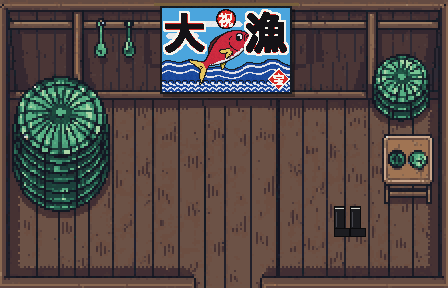
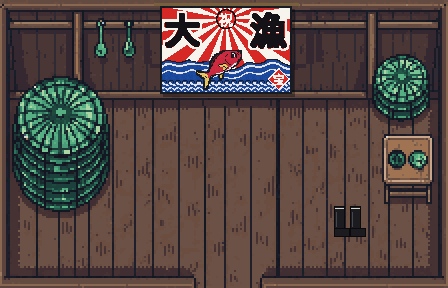
公開版を更新(宝舟の大漁旗の直し、見届けを旗の前へ、版 427)
Claude-Session: https://claude.ai/code/session_01ERearMX4bR57A7Hf4hvtGp

Changed region(s): [[0.3438, 0.0, 0.6562, 0.3125]]

diff --git a/field/worlds/takarabune.js b/field/worlds/takarabune.js
@@ -346,19 +346,31 @@ const TK_PORT = tkMap("port", 28, 14, {
     { id: "netDoor", x: 423, y: 160, w: 22, h: 14, enabled: tkNorth, warp: { map: "amigoya", spawn: "door" } }, // 網小屋の戸口(D457)
   ],
   objects: [
-    // 見届け: 青い光漁の光が沖へ消えるまで見ている(D189)
-    kWatch({
-      id: "w_bluelight",
-      x: 11.2 * T,
-      y: 9.2 * T,
-      r: 2.6 * T,
-      sec: 6, lure: "120, 220, 255",
-      when: (api) => api.flag("glowed"),
-      fx(ctx, sx, sy, p, t) {
-        kGlowAt(ctx, sx + 1.5 * T + p * 7 * T, sy + 2.6 * T - p * 0.6 * T, 140 * (1 - p) + 14, "150, 230, 255", (1 - p) * 1);
-        kGlowAt(ctx, sx + 1.5 * T + p * 7 * T, sy + 2.6 * T - p * 0.6 * T, 40 * (1 - p) + 6, "235, 252, 255", (1 - p) * 0.9);
-      },
-    }),
+    // 青い光漁の光が沖へ消えていく(前の見届け。D462 で見届けは網小屋の大漁旗へ移した。景色として残す。呼ぶ光はなし)
+    Object.assign(
+      kWatch({
+        id: "s_bluelight",
+        keep: true, // 見届けたあとも景色として描く
+        x: 11.2 * T,
+        y: 9.2 * T,
+        r: 2.6 * T,
+        sec: 6,
+        when: (api) => api.flag("glowed"),
+        fx(ctx, sx, sy, p, t) {
+          kGlowAt(ctx, sx + 1.5 * T + p * 7 * T, sy + 2.6 * T - p * 0.6 * T, 140 * (1 - p) + 14, "150, 230, 255", (1 - p) * 1);
+          kGlowAt(ctx, sx + 1.5 * T + p * 7 * T, sy + 2.6 * T - p * 0.6 * T, 40 * (1 - p) + 6, "235, 252, 255", (1 - p) * 0.9);
+        },
+      }),
+      {
+        update(dt, t, api) {
+          const pl = api.player();
+          if (this.p >= 1) return; // 一度消えたら、そのまま
+          if (api.flag("glowed") && Math.hypot(pl.x - this.x, pl.y - this.y) < this.r) this.p = Math.min(1, this.p + dt / 6);
+          else this.p = Math.max(0, this.p - dt / 18);
+        },
+        r: 2.6 * T,
+      }
+    ),
     // 宝舟は岸壁より手前(水の上)。帆・帆柱・竜頭・煙突は、岸壁を歩くきーより手前に描く(fg_port。docs/assets/takarabune/fg_port.py)
     // 帆のうしろの岸壁は通れる。うしろに入ると、きーは帆に隠れる(2026-10-03、作者「帆の後ろは通り抜けるが、きーが隠れるはできる？」)
     // 竜頭と首のうしろの岸壁も通れて、うしろに入ると竜頭と首に隠れる(2026-10-03、作者「通りぬけるようにして」→「首と竜頭のうしろに隠れる」)
@@ -750,7 +762,7 @@ const TK_GATE = tkMap("gate", 28, 10, {
 
 // B2 構内(todo 152): 正門を北へ抜けると、夜の発電所の敷地。北の管理棟の扉(緑の非常灯)から中へ。南の門のすきまから正門へ
 // 網小屋の中(D457、todo 155): 宝舟の港の網小屋。真っ暗で、てらすがないと、きーのまわりしか見えない
-// 絵は PixelLab の案を手で直し、大漁旗(PixelLab の絵に手描きの字)を掛けた(docs/assets/takarabune/amigoya/finish.py)。持ち帰るものはない
+// 絵は PixelLab の案を手で直し、大漁旗(PixelLab の絵に手描きの字、赤白の放射。D461、flag_rays.py)を掛けた(docs/assets/takarabune/amigoya/finish.py)。持ち帰るものはない
 const TK_AMIGOYA = tkMap("amigoya", 14, 9, {
   spawns: { door: { x: 7 * T, y: 8.1 * T, facing: "north" } },
   dark: 1, // てらすがないと、きーのまわりのほかは何も見えない
@@ -760,6 +772,51 @@ const TK_AMIGOYA = tkMap("amigoya", 14, 9, {
     tkWall(372, 96, 432, 120), // 右の網の山
     tkWall(382, 150, 432, 200), // 浮き玉の棚
     tkWall(334, 226, 366, 238), // 長靴
+    // 見届け(D462): 大漁旗の前にいると、祝の丸から放射にそって、ほのかな光が旗いっぱいに広がり、ゆっくり消える(ちゃんの祝いの名残)
+    // 部屋は真っ暗なので、てらすがないと見届けられない(D201)。光は闇の上に描く(lit)
+    kWatch({
+      id: "w_flag",
+      x: 226,
+      y: 104,
+      r: 1.6 * T,
+      sec: 6,
+      lure: "255, 226, 170",
+      lit: true,
+      ly: 19 - 104, // 祝の丸
+      when: (api) => api.hasAbility("terasu") || api.flag("terasu"), // rpg.js の can("terasu") と同じ
+      fx(ctx, sx, sy, p) {
+        if (p <= 0) return;
+        const fx0 = sx - 66, fy0 = sy - 98; // 旗の左上(網小屋の絵の 160, 6)
+        const show = Math.min(1, p / 0.3) * (p < 0.6 ? 1 : 1 - (p - 0.6) / 0.4); // 光が強まり、また消える
+        ctx.save();
+        ctx.beginPath();
+        ctx.rect(fx0, fy0, 132, 88);
+        ctx.clip();
+        ctx.globalCompositeOperation = "lighter";
+        ctx.globalAlpha = 1;
+        const cx = sx, cy = sy - 85; // 祝の丸
+        const R = 6 + Math.min(1, p / 0.7) * 110; // 光の輪が、放射にそって外へ走る
+        const a = 0.42 * show;
+        const out = R + 10;
+        const g = ctx.createRadialGradient(cx, cy, 0, cx, cy, out);
+        g.addColorStop(0, `rgba(255, 210, 140, ${a * 0.1})`);
+        g.addColorStop(Math.max(0, (R - 12) / out), `rgba(255, 210, 140, ${a * 0.08})`);
+        g.addColorStop(R / out, `rgba(255, 190, 90, ${a})`);
+        g.addColorStop(1, "rgba(255, 190, 90, 0)");
+        ctx.fillStyle = g;
+        for (let i = 0; i < 16; i++) {
+          // 放射の赤い筋(16 本)の向きだけ光らせる
+          const a0 = (2 * Math.PI * i) / 16 + Math.PI / 32;
+          ctx.beginPath();
+          ctx.moveTo(cx, cy);
+          ctx.arc(cx, cy, out, a0 - Math.PI / 32, a0 + Math.PI / 32);
+          ctx.closePath();
+          ctx.fill();
+        }
+        kGlowAt(ctx, cx, cy, 16, "255, 236, 200", a * 0.8); // 祝の丸のまわり
+        ctx.restore();
+      },
+    }),
   ],
 });
 const TK_YARD = tkMap("yard", 20, 10, {

diff --git a/field/index.html b/field/index.html
@@ -14,8 +14,8 @@
   <link rel="apple-touch-icon" href="./apple-touch-icon.png">
   <meta name="apple-mobile-web-app-title" content="ぼぎだぢ">
   <meta http-equiv="Cache-Control" content="no-cache">
-  <script src="./fresh.js?v=425"></script>
-  <link rel="stylesheet" href="./style.css?v=425">
+  <script src="./fresh.js?v=427"></script>
+  <link rel="stylesheet" href="./style.css?v=427">
 </head>
 <body>
 
@@ -53,33 +53,33 @@
   <button type="button" id="actionBtnT" class="action-btn action-btn-t" aria-label="時計">TIME</button>
 
 
-  <script src="./audio.js?v=425"></script>
-  <script src="./rpg.js?v=425"></script>
-  <script src="./worlds/common.js?v=425"></script>
-  <script src="./worlds/lake.js?v=425"></script>
-  <script src="./worlds/void.js?v=425"></script>
-  <script src="./worlds/haihei.js?v=425"></script>
-  <script src="./worlds/kasumi.js?v=425"></script>
-  <script src="./worlds/banana.js?v=425"></script>
-  <script src="./worlds/suzuki.js?v=425"></script>
-  <script src="./worlds/takarabune.js?v=425"></script>
-  <script src="./worlds/noroi.js?v=425"></script>
-  <script src="./worlds/noroi_diner.js?v=425"></script>
-  <script src="./worlds/noroi_strip.js?v=425"></script>
-  <script src="./worlds/noroi_race.js?v=425"></script>
-  <script src="./worlds/pinball.js?v=425"></script>
-  <script src="./worlds/padre.js?v=425"></script>
-  <script src="./worlds/kinsei.js?v=425"></script>
-  <script src="./worlds/bomber.js?v=425"></script>
-  <script src="./worlds/finale.js?v=425"></script>
-  <script src="./worlds/index.js?v=425"></script>
-  <script src="./app/layout.js?v=425"></script>
-  <script src="./app/dialog.js?v=425"></script>
-  <script src="./app/game.js?v=425"></script>
-  <script src="./app/status.js?v=425"></script>
-  <script src="./app/title.js?v=425"></script>
-  <script src="./app/watch.js?v=425"></script>
-  <script src="./app/input.js?v=425"></script>
-  <script src="./app/loop.js?v=425"></script>
+  <script src="./audio.js?v=427"></script>
+  <script src="./rpg.js?v=427"></script>
+  <script src="./worlds/common.js?v=427"></script>
+  <script src="./worlds/lake.js?v=427"></script>
+  <script src="./worlds/void.js?v=427"></script>
+  <script src="./worlds/haihei.js?v=427"></script>
+  <script src="./worlds/kasumi.js?v=427"></script>
+  <script src="./worlds/banana.js?v=427"></script>
+  <script src="./worlds/suzuki.js?v=427"></script>
+  <script src="./worlds/takarabune.js?v=427"></script>
+  <script src="./worlds/noroi.js?v=427"></script>
+  <script src="./worlds/noroi_diner.js?v=427"></script>
+  <script src="./worlds/noroi_strip.js?v=427"></script>
+  <script src="./worlds/noroi_race.js?v=427"></script>
+  <script src="./worlds/pinball.js?v=427"></script>
+  <script src="./worlds/padre.js?v=427"></script>
+  <script src="./worlds/kinsei.js?v=427"></script>
+  <script src="./worlds/bomber.js?v=427"></script>
+  <script src="./worlds/finale.js?v=427"></script>
+  <script src="./worlds/index.js?v=427"></script>
+  <script src="./app/layout.js?v=427"></script>
+  <script src="./app/dialog.js?v=427"></script>
+  <script src="./app/game.js?v=427"></script>
+  <script src="./app/status.js?v=427"></script>
+  <script src="./app/title.js?v=427"></script>
+  <script src="./app/watch.js?v=427"></script>
+  <script src="./app/input.js?v=427"></script>
+  <script src="./app/loop.js?v=427"></script>
 </body>
 </html>

diff --git a/field/worlds/common.js b/field/worlds/common.js
@@ -22,7 +22,13 @@ const kSparkle = (ctx, x, y, s, a, rgb) => {
   ctx.fillRect(Math.round(x), Math.round(y), 1, 1);
 };
 // keep: 見届けたあとも呼ぶ光を残す(見届けとは別のしかけ。凍った湖のちゃんの座布団)
-const kWatch = ({ id, x, y, r, sec, when, fx, follow, lure, lx = 0, ly = -1.2 * T, keep, big }) => ({
+// lit: 暗いマップで、呼ぶ光と fx を闇の上に描く(宝舟の網小屋の大漁旗 D462)
+const kWatch = (o) => {
+  const w = kWatch0(o);
+  if (o.lit) [w.drawLit, w.drawOver] = [w.drawOver, undefined];
+  return w;
+};
+const kWatch0 = ({ id, x, y, r, sec, when, fx, follow, lure, lx = 0, ly = -1.2 * T, keep, big }) => ({
   id,
   x,
   y,

diff --git a/field/fresh.js b/field/fresh.js
@@ -1,7 +1,7 @@
 // 古い版が残らないように(ホーム画面に置いたとき、ページそのものが手元に残る)。index.html の中から、このファイルに出した(D301。ページの中に直接書いた script を禁止するため)
 // version.json(毎回取りにいく)の版がこのページとちがえば、URL を変えて読みなおす。版を上げるときは、下の数と version.json と ?v= をそろえる
 (function () {
-  var V = "425";
+  var V = "427";
   var key = "bogidachi.reloadedFor";
   function check(onlyIfSafe) {
     fetch("./version.json?t=" + Date.now(), { cache: "no-store" })

diff --git a/field/rpg.js b/field/rpg.js
@@ -1077,6 +1077,8 @@ const ASSET_V = (() => {
 
       if (map.drawOverlay) map.drawOverlay(ctx, ox, oy, t, world.api);
       if (map.dark) drawDark(ox, oy);
+      // 闇の上に描くもの(drawLit。暗い部屋で光る見届けなど)
+      if (map.dark) for (const d of drawables) if (d.o && d.o.drawLit) d.o.drawLit(ctx, Math.round(d.o.x + ox), Math.round(d.o.y + oy), t, world.api);
       if (map.wind) drawWind(ox, oy);
       // 夕方などの色: tintMul は掛け合わせ(暗く、色をのせる)、tint は上から薄く重ねる
       if (map.tintMul) {
